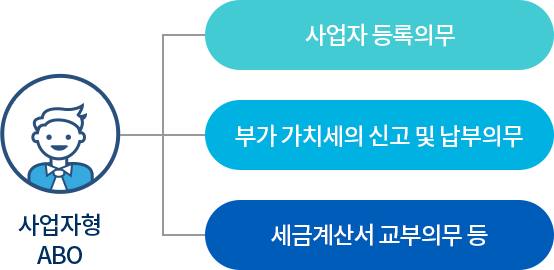
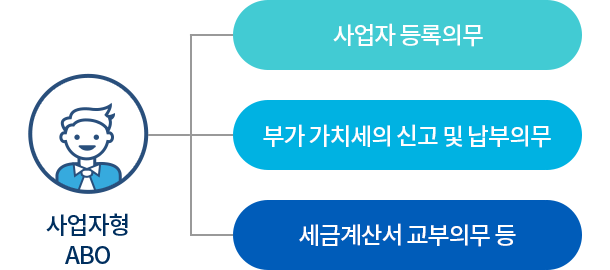
cp

diff --git a/_ui/responsive/html/compliance/F80600.html b/_ui/responsive/html/compliance/F80600.html
@@ -110,8 +110,8 @@
 				</ul>
 				<h2 class="title-h5">AKL CP 운용 조직도</h2>
 				<div class="bizPhoto taxation01">
-                	<div class="pc"><img src="/_ui/responsive/theme-blue/images/akl_common/customer/img_cp_01.png" alt=""></div>
-               		<div class="mob"><img src="/_ui/responsive/theme-blue/images/akl_common/customer/img_cp_01_mob.png" alt=""></div>
+                	<div class="pc c1024"><img src="/_ui/responsive/theme-blue/images/akl_common/customer/img_cp_01.png" alt=""></div>
+               		<div class="mob c1024"><img src="/_ui/responsive/theme-blue/images/akl_common/customer/img_cp_01_mob.png" alt=""></div>
                		<ol class="hidden">
                			<li>자율준수 관리자(이준범 전무)</li>
                			<li>자율준수 관리자(Legal & Government Affairs)</li>

diff --git a/_ui/responsive/theme-blue/css/akl-business.css b/_ui/responsive/theme-blue/css/akl-business.css
@@ -1471,6 +1471,11 @@ table.clone thead, .clone tfoot{background:transparent;}
 	.note-con-box.qrcode .ty-cover {display:none;}
 	.note-con-box.qrcode .ty-inside {width:auto;}
 	.note-index-wrapper dt+dd { padding-left:0;}
+	
+	/* 사업가이드 */
+	.taxation01 .pc.c1024 {display:none}
+	.taxation01 .mob.c1024 {display:block}
+	.taxation01 .mob.c1024 img {width:305px}
 }
 @media (max-width:992px) {
 
@@ -2053,7 +2058,7 @@ table.clone thead, .clone tfoot{background:transparent;}
 	.business-guide-wrap .pc {display:none}
 	.business-guide-wrap .mob {display:block}
 	.taxation01 {padding:20px; overflow-x:auto}
-	.taxation01 img {width:277px; max-width:277px}
+	.taxation01 img {width:305px; max-width:305px}
 
 	.taxation03 {padding:20px; overflow-x:auto}
 	.taxation03 img {width:305px; max-width:305px}
